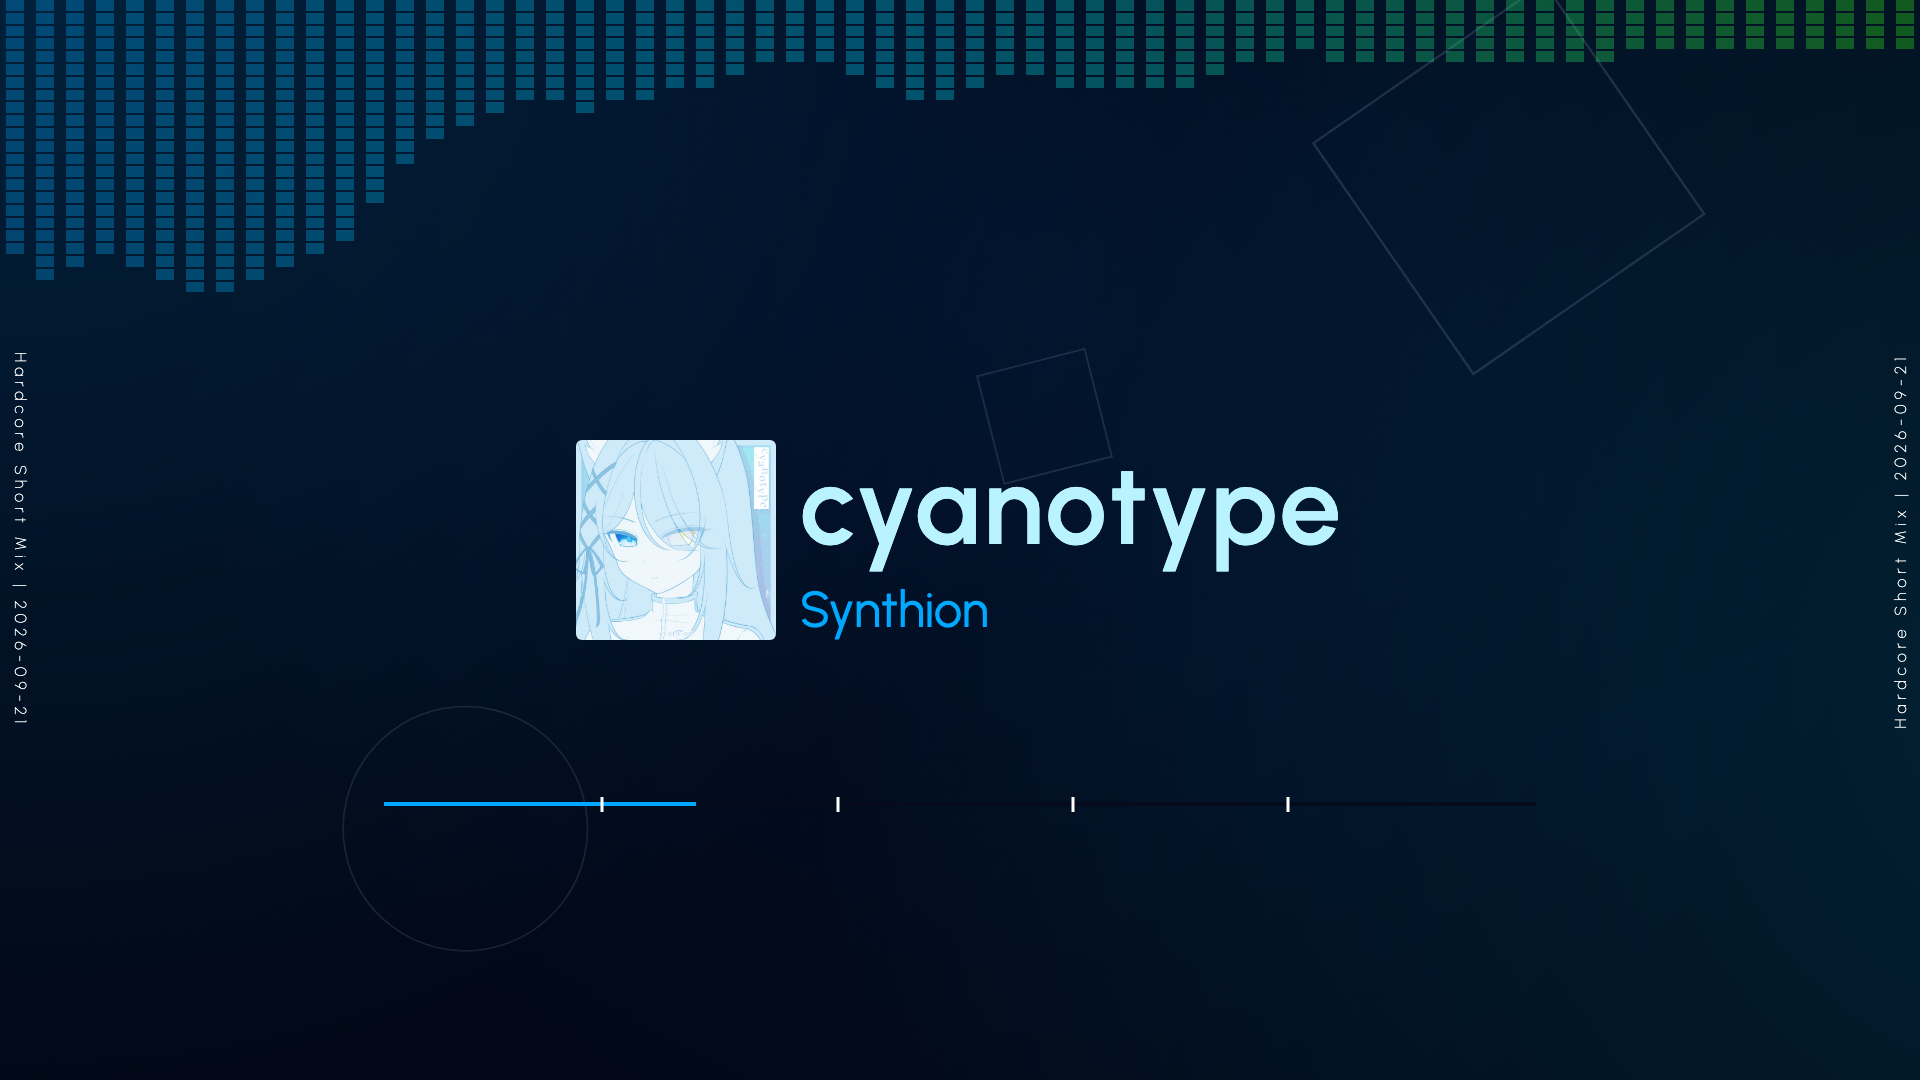
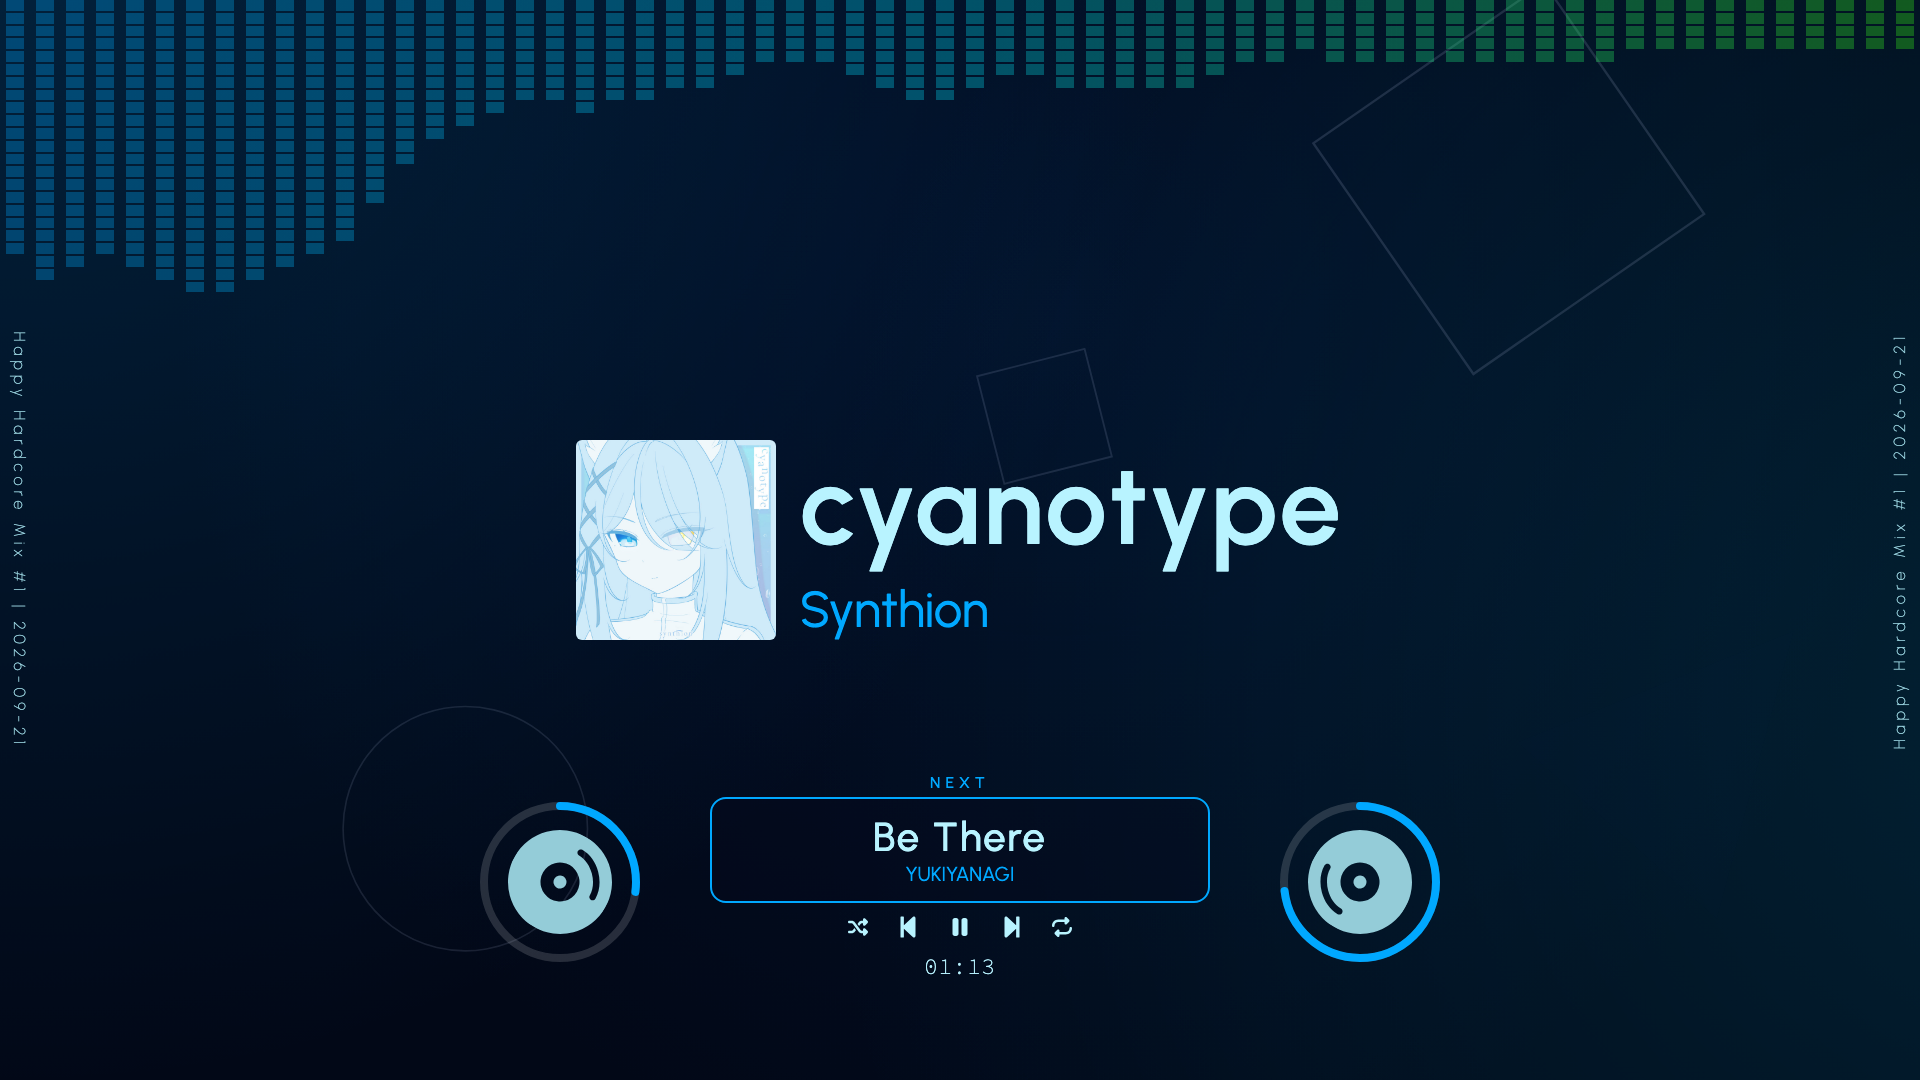
modified article

diff --git a/src/content/article/autorender-vj-video.md b/src/content/article/autorender-vj-video.md
@@ -6,13 +6,13 @@ category:        tech
 tags:            [ts, react, dj]
 description:     "Remotion を使用して、DJ プレイの wav 音源から VJ 動画を自動でレンダリングするシステムを構築しました。"
 publishDate:     2026-09-21T00:00:13+09:00
-updateDate:      2026-09-21T22:34:34+09:00
+updateDate:      2026-09-23T00:42:52+09:00
 relatedArticles: []
 ---
 
 ## コードで動画を作る
 
-突然ですが、私は Hardcore Rave が大好きです。趣味で DJ コントローラーを触っているのですが、いい感じの Mix が録れた時に「*カッコいい動画にして投稿してぇな〜*」という気持ちが湧いてきます。
+突然ですが、私は Hardcore techno が大好きです。趣味で DJ コントローラーを触っているのですが、いい感じの Mix が録れた時に「*カッコいい動画にして投稿してぇな〜*」という気持ちが湧いてきます。
 動画編集はかなり面倒くさい作業ですし、過去に幾つかの動画編集ソフトを触ったことがありますが、そもそも手持ちにある貧弱なスペックのノート PC では編集時にカクついてお話になりません。
 \
 そんな折に、何やら React で動画を作れるツールがあるらしいとの話を小耳に挟んだもので、試してみることにしました。それが、今回使った **Remotion** というライブラリです。
@@ -24,7 +24,7 @@ https://remotion.dev
 \
 先に、実際に生成した Mix 動画を置いておきます：
 
-https://www.youtube.com/watch?v=PlclTe-YXVo
+https://www.youtube.com/watch?v=-YiAyMvMrn8
 
 ## 要件
 
@@ -40,13 +40,16 @@ public/
             └── cover2.jpg
 ```
 
-`metadata.json` は以下のような形式です。`"tracks"` フィールドは使用した曲のタイトル、コンポーザー名、カバーアートのパス、曲がスイッチするタイミング (sec) が格納されています。
+`metadata.json` は以下のような形式です。Mix のタイトル、オーディオファイルのパス、日付、平均 BPM、オープニングの表示時間 (sec) が記載してあります。
+`"tracks"` フィールドには使用した曲のタイトル、コンポーザー名、カバーアートのパス、各曲がスタートする時間 (sec) が格納されています。
 
 ```json:metadata.json
 {
     "title": "Hardcore Short Mix",
     "audio": "mix.wav",
     "date": "2026-09-21",
+    "bpm": 175,
+    "opening": 5,
     "tracks": [
         {
             "title": "music 1",
@@ -79,7 +82,7 @@ public/
 
 ## 主要コンポーネント
 
-以下では、コアとなるコンポーネントの小さい実装を示します。実装全体は以下のリポジトリにあります。
+以下では、主なコンポーネントの小さい実装を示します。実装全体は以下のリポジトリにあります。
 
 https://github.com/s-inoue0108/remotion-vj
 
@@ -87,14 +90,14 @@ https://github.com/s-inoue0108/remotion-vj
 
 親に相当するコンポーネントです。ここでは Remotion や周辺ライブラリの API を使って音源に関する情報を拾っていき、Props を介して必要な情報を画面に配置する子コンポーネントに渡していく設計です。
 
-```tsx:Wav2VJ.tsx
+```tsx:Display.tsx
 import { AbsoluteFill, Html5Audio, staticFile, useCurrentFrame, useVideoConfig } from "remotion";
 import { useAudioData, visualizeAudio } from "@remotion/media-utils";
 
 // スペクトラムビジュアライザ
 import { SpectrumVisualizer } from "./SpectrumVisualizer";
 
-export const Wav2VJ = ({ path, metadata }: Props) => {
+export const Display = ({ path, metadata }: Props) => {
 
     // フレーム, FPS
     const frame = useCurrentFrame();
@@ -131,6 +134,10 @@ export const Wav2VJ = ({ path, metadata }: Props) => {
     )
 }
 ```
+
+実際の実装は以下です。
+
+https://github.com/s-inoue0108/remotion-vj/blob/main/src/deepdark/Deepdark.tsx
 
 ### スペクトラムビジュアライザ
 
@@ -206,7 +213,7 @@ export const SpectrumVisualizer = ({ frequencies, displayFrequencies = 64, maxBl
 };
 ```
 
-親である `Wav2VJ` コンポーネントからは、周波数ごとの強度である `frequencies` が毎フレーム渡ってきます。今回は Hardcore techno 系の曲を想定しているので、周波数帯 を 512 チャネルと多めにとり、そのうち低域側の 64 チャネルのみを使用することで、特徴的な力強いキックを精密に捉えるようにしています。
+親である `Display` コンポーネントからは、周波数ごとの強度である `frequencies` が毎フレーム渡ってきます。今回は Hardcore techno 系の曲を想定しているので、周波数帯 を 512 チャネルと多めにとり、そのうち低域側の 64 チャネルのみを使用することで、特徴的な力強いキックを精密に捉えるようにしています。
 \
 また、ブロック数 `blocks` を計算する `Math.floor()` に倍率を仕込むことで、わずかな音に対してもビジュアライザが鋭敏に反応するようになっています。
 
@@ -214,26 +221,37 @@ export const SpectrumVisualizer = ({ frequencies, displayFrequencies = 64, maxBl
 
 *[!image] キックの度に画面上部いっぱいのブロックが波打つ*
 
+### 現在の曲の情報
+
+カバーアート・タイトル・コンポーザー名が表示してあります。中身はほぼ CSS です。
+\
+以降の実装は割愛するので、GitHub の内容を参照してください。
+
+https://github.com/s-inoue0108/remotion-vj/blob/main/src/deepdark/component/TrackBanner.tsx
+
+### 次の曲の情報
+
+画面下部には次の曲の情報が表示してあり、曲がスイッチするタイミングで Easing するようになっています。
+
+https://github.com/s-inoue0108/remotion-vj/blob/main/src/deepdark/component/NextTrack.tsx
+
 ### 背景アニメーション
 
 Hardcore techno 系楽曲の MV で、画面いっぱいにパーティクルや幾何学模様が浮遊する演出、ありますよね (ビデオジョッキーっぽい感じのやつ)。
 \
 実際、背景がそのままだと寂しかったので、適度なグラデーションと図形が奥から手前に浮かんでくるようなアニメーションを入れました。
-実装はほぼ CSS なので、以下を参照してください。
 
-https://github.com/s-inoue0108/remotion-vj/blob/main/src/VJBackground.tsx
+https://github.com/s-inoue0108/remotion-vj/blob/main/src/deepdark/component/VJBackground.tsx
 
 ### プログレスバー
 
-画面下部には、楽曲の進行状況を表すプログレスバーも設置してあります (これもたまに見かける)。また、曲がスイッチするタイミングがわかるように、バーの所定の位置にマーカーをつける様にしてみました。
-\
-これも実装は割愛します。
+BPM に合わせて回転するジョグホイールを模したプログレスバーを設置しました。左側のホイールは 8 拍、右側のホイールは 16 拍ごとに一回転するようになっています。
 
-https://github.com/s-inoue0108/remotion-vj/blob/main/src/ProgressBar.tsx
+https://github.com/s-inoue0108/remotion-vj/blob/main/src/deepdark/component/ProgressDisc.tsx
 
 ## まとめ
 
 かなり気に入ったので、色々なバリエーションを用意して長く使っていけたらと思っています。
 
 - [Remotion-VJ | GitHub](https://github.com/s-inoue0108/remotion-vj)
-- [Hardcore Short Mix #1 【Happy Hardcore / ハピコア】 | YouTube](https://www.youtube.com/watch?v=PlclTe-YXVo)
+- [Happy Hardcore #1 【ハピコア】 | YouTube](https://www.youtube.com/watch?v=-YiAyMvMrn8)
